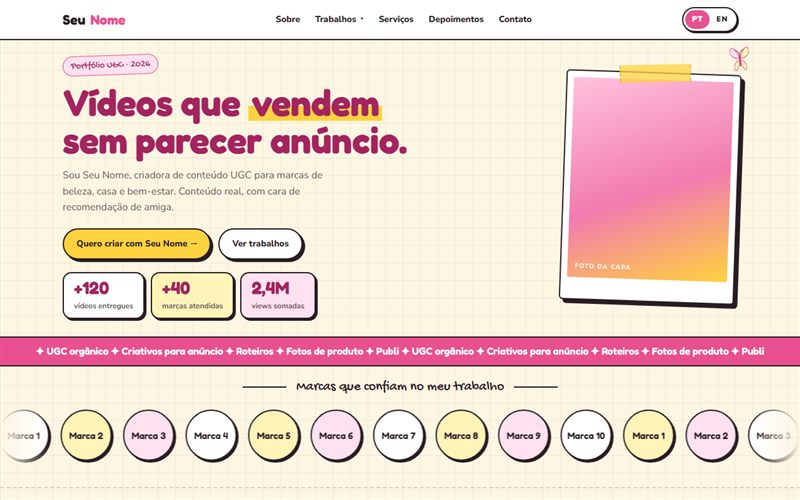
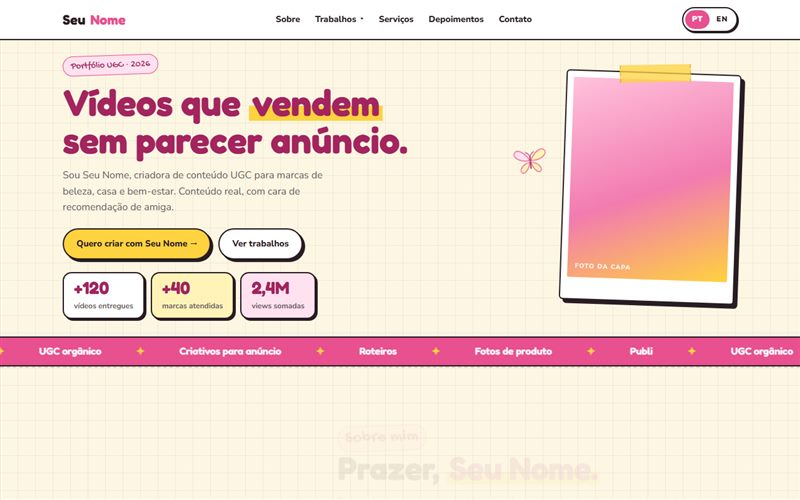
Atualiza index.html

diff --git a/cliente/index.html b/cliente/index.html
@@ -544,7 +544,7 @@ const MODELOS = [
   { tipo: "Bio link",  nome: "Colorido", categoria: "Colorido e divertido", link: "", imagem: "", estilo: "colorido" },
   { tipo: "Bio link",  nome: "Elegante", categoria: "Escuro e sofisticado", link: "", imagem: "", estilo: "elegante" },
   { tipo: "Portfólio", nome: "Editorial creme e azul", categoria: "Editorial", link: "../modelos/estilo-01/", imagem: "../fotos/modelos/01.jpg?v=5" },
-  { tipo: "Portfólio", nome: "Scrapbook rosa e amarelo", categoria: "Divertido", link: "../modelos/estilo-02/", imagem: "../fotos/modelos/02.jpg?v=2" },
+  { tipo: "Portfólio", nome: "Scrapbook rosa e amarelo", categoria: "Divertido", link: "../modelos/estilo-02/", imagem: "../fotos/modelos/02.jpg?v=3" },
   { tipo: "Site",      nome: "Clean",    categoria: "Clean e elegante",     link: "", imagem: "", estilo: "clean" },
   { tipo: "Site",      nome: "Colorido", categoria: "Colorido e divertido", link: "", imagem: "", estilo: "colorido" },
   { tipo: "Site",      nome: "Elegante", categoria: "Escuro e sofisticado", link: "", imagem: "", estilo: "elegante" }

diff --git a/modelos/estilo-02/index.html b/modelos/estilo-02/index.html
@@ -296,7 +296,7 @@ em{font-style:normal;color:var(--rosa-escuro);background:linear-gradient(transpa
   .numeros b{font-size:21px}
   .sobre .largura{grid-template-columns:1fr;gap:30px}
   .sobre .polaroid{width:100%;max-width:300px;margin:0 auto}
-  .destaques-lista{grid-template-columns:none;grid-auto-flow:column;grid-auto-columns:70%;overflow-x:auto;scroll-snap-type:x mandatory;padding:4px 8px 16px}
+  .destaques-lista{grid-template-columns:none;grid-auto-flow:column;grid-auto-columns:70%;overflow-x:auto;scroll-snap-type:x mandatory;padding:16px 8px 16px}
   .destaque{scroll-snap-align:start}
   .destaque:nth-child(1),.destaque:nth-child(3){margin-top:0}
   .videos{grid-template-columns:none;grid-auto-flow:column;grid-auto-columns:68%;overflow-x:auto;scroll-snap-type:x mandatory;padding:4px 6px 12px}
